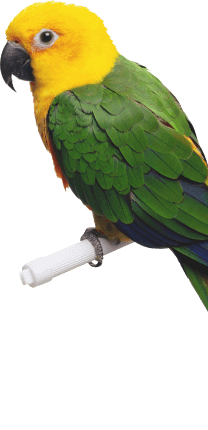
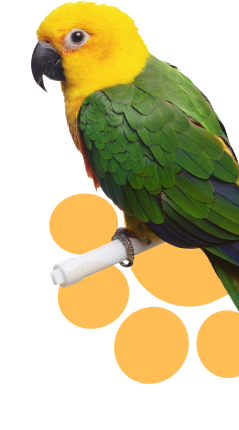
fix promo and comments section

diff --git a/index.html b/index.html
@@ -102,11 +102,11 @@
       <div class="container">
         <div class="comments-section-content">
           <h2 class="visually-hidden">Comments Section</h2>
-          <hr class="comments-hr">
-          <blockquote class="comment">
-            Наша ветеринарная клиника готова уделить максимум внимания Вам и Вашему питамцу. Здоровье и благополучие Ваших животных очень важно для нас и мы стремимся оказать наилучшую возможную ветеринарную помощь.
-          </blockquote>
-          <hr class="comments-hr">
+          <div class="comment-wrapper">
+            <blockquote class="comment">
+              Наша ветеринарная клиника готова уделить максимум внимания Вам и Вашему питамцу. Здоровье и благополучие Ваших животных очень важно для нас и мы стремимся оказать наилучшую возможную ветеринарную помощь.
+            </blockquote>
+          </div>
           <p class="comment-author">Оржоникидзевская Ветеринарная клиника</p>
         </div>
       </div>
@@ -270,93 +270,95 @@
         </div>
       </div>
     </section>
-  </main>
-  
-  
-  <!-- Article Section -->
-  
-  
-  <article class="articles-section">
-    <div class="container">
-      <div class="articles-section-content">
-        <h2 class="section-heading">Полезные статьи</h2>
-        
-        <div class="article">
-          <article class="inner-article article-odd">
-            <div class="article-odd-img-wrapper">
-              <img src="img/article-cat.jpg" alt="Article img" srcset="img/article-cat.jpg 1x, img/article-cat@2x.jpg 2x" width="305" height="180">
-            </div>
-            
-            <time>28.08.2020</time>
-            
-            <h3 class="inner-heading">Ультразвуковая чистка зубов</h3>
-            
-            <p>Появление в доме котенка приятное и радосное событие. Но не всегда этот пушистый зверек берется от ...</p>
-            
-            <a class="btn btn-read-more" href="#">Читать больше</a>
-          </article>
+    
+    
+    
+    <!-- Article Section -->
+    
+    
+    <article class="articles-section">
+      <div class="container">
+        <div class="articles-section-content">
+          <h2 class="section-heading">Полезные статьи</h2>
           
-          <article class="inner-article article-even">
-            <div class="article-even-img-wrapper">
-              <img src="img/article-two-dogs.jpg" alt="Article img" srcset="img/article-two-dogs.jpg 1x, img/article-two-dogs@2x.jpg 2x" width="305" height="435">
-            </div>
-            
-            <div class="article-even-text">
-              <div class="article-even-info">
-                <div class="article-hashtag">
-                  <span>#собака</span>
-                  <span>#дом</span>
-                  <span>#уход</span>
-                </div>
-                <time>28.08.2020</time>
+          <div class="article">
+            <article class="inner-article article-odd">
+              <div class="article-odd-img-wrapper">
+                <img src="img/article-cat.jpg" alt="Article img" srcset="img/article-cat.jpg 1x, img/article-cat@2x.jpg 2x" width="305" height="180">
               </div>
               
-              <h3 class="inner-heading">Перед тем как завести собаку</h3>
+              <time>28.08.2020</time>
               
-              <p>Появление в доме котенка приятное и радосное событие. Но не всегда этот пушистый зверек берется от заводчиков, Бивают и ситуации когда животное находят на улице и дают ему теплый дом. И первым вопросом, который возникает у новых хозяев – как определить возраст котенка. Появление в доме котенка приятное и радосное событие.</p>
+              <h3 class="inner-heading">Ультразвуковая чистка зубов</h3>
+              
+              <p>Появление в доме котенка приятное и радосное событие. Но не всегда этот пушистый зверек берется от ...</p>
               
               <a class="btn btn-read-more" href="#">Читать больше</a>
-            </div>
-          </article>
-          
-          <article class="inner-article article-odd">
-            <div class="article-odd-img-wrapper">
-              <img src="img/article-dog.jpg" alt="Article img" srcset="img/article-dog.jpg 1x, img/article-dog@2x.jpg 2x" width="305" height="180">
-            </div>
+            </article>
             
-            <time>28.08.2020</time>
+            <article class="inner-article article-even">
+              <div class="article-even-img-wrapper">
+                <img src="img/article-two-dogs.jpg" alt="Article img" srcset="img/article-two-dogs.jpg 1x, img/article-two-dogs@2x.jpg 2x" width="305" height="435">
+              </div>
+              
+              <div class="article-even-text">
+                <div class="article-even-info">
+                  <div class="article-hashtag">
+                    <span>#собака</span>
+                    <span>#дом</span>
+                    <span>#уход</span>
+                  </div>
+                  <time>28.08.2020</time>
+                </div>
+                
+                <h3 class="inner-heading">Перед тем как завести собаку</h3>
+                
+                <p>Появление в доме котенка приятное и радосное событие. Но не всегда этот пушистый зверек берется от заводчиков, Бивают и ситуации когда животное находят на улице и дают ему теплый дом. И первым вопросом, который возникает у новых хозяев – как определить возраст котенка. Появление в доме котенка приятное и радосное событие.</p>
+                
+                <a class="btn btn-read-more" href="#">Читать больше</a>
+              </div>
+            </article>
             
-            <h3 class="inner-heading">Когда привавать питомца?</h3>
-            
-            <p>Появление в доме котенка приятное и радосное событие. Но не всегда этот пушистый зверек берется от ...</p>
-            
-            <a class="btn btn-read-more" href="#">Читать больше</a>
-          </article>
+            <article class="inner-article article-odd">
+              <div class="article-odd-img-wrapper">
+                <img src="img/article-dog.jpg" alt="Article img" srcset="img/article-dog.jpg 1x, img/article-dog@2x.jpg 2x" width="305" height="180">
+              </div>
+              
+              <time>28.08.2020</time>
+              
+              <h3 class="inner-heading">Когда привавать питомца?</h3>
+              
+              <p>Появление в доме котенка приятное и радосное событие. Но не всегда этот пушистый зверек берется от ...</p>
+              
+              <a class="btn btn-read-more" href="#">Читать больше</a>
+            </article>
+          </div>
         </div>
       </div>
-    </div>
-  </article>
-  
-  
-  <!-- Feedback Section -->
-  
-  <section class="feedback-section">
-    <a class="feedback-map-link" href="https://goo.gl/maps/Li6QioLF6r5FvDAi7">
-      <img class="feedback-map" src="img/map-yandex.jpg" alt="Map" srcset="img/map-yandex.jpg 1x, img/map-yandex@2x.jpg 2x" width="462" height="652">
-    </a>
+    </article>
     
-    <div class="feedback-section-content">
-      <h2 class="section-heading">Обратная связь</h2>
+    
+    <!-- Feedback Section -->
+    
+    <section class="feedback-section">
+      <a class="feedback-map-link" href="https://goo.gl/maps/Li6QioLF6r5FvDAi7">
+        <img class="feedback-map" src="img/map-yandex.jpg" alt="Map" srcset="img/map-yandex.jpg 1x, img/map-yandex@2x.jpg 2x" width="462" height="652">
+      </a>
       
-      <p class="feedback-subtitle">При возникновении вопросов по поводу работы клиники или консультаций, заполните форму ниже:</p>
-      
-      <form action="#" method="GET">
-        <label for="name_input">Ваше имя</label>
-        <input type="text" id="name_input" name="username" placeholder="Ваше имя" required>
-      </form>
-    </div>
-  </section>
-  
+      <div class="feedback-section-content">
+        <h2 class="section-heading">Обратная связь</h2>
+        
+        <p class="feedback-subtitle">При возникновении вопросов по поводу работы клиники или консультаций, заполните форму ниже:</p>
+        
+        <form action="#" method="GET">
+          <label for="name_input">Ваше имя</label>
+          <input type="text" id="name_input" name="username" placeholder="Ваше имя" required>
+        </form>
+      </div>
+    </section>
+
+
+  </main>
   
   <!-- Site Footer -->
   

diff --git a/css/styles.css b/css/styles.css
@@ -367,11 +367,11 @@ img{
 
 .promo-section{
   padding-top: 153px;
-  padding-bottom: 321px;
+  padding-bottom: 400px;
   background-image: url(../img/promo-bg-left.png), 
   url(../img/promo-bg-right.png);
   background-repeat: no-repeat;
-  background-position: top left, bottom right;
+  background-position: top -100px left , bottom right;
   background-size: contain, auto;
 }
 
@@ -390,9 +390,11 @@ img{
 
 .page-heading span{
   color: #1c97b6;
+  display: inline-block;
 }
 
 .page-info{
+  max-width: 495px;
   margin: 0;
   margin-bottom: 38px;
   font-size: 16px;
@@ -401,7 +403,9 @@ img{
 }
 
 .btn-our-services{
-  padding: 15px 48px;
+  min-width: 180px;
+  max-width: 100%;
+  padding: 15px;
   border-radius: 3px;
   transition: background-color 0.3s ease,
   opacity 0.3s ease,
@@ -420,26 +424,45 @@ img{
 /* Comments Section */
 
 .comments-section{
-  margin-bottom: 191px;
+  padding-top: 30px;
+  padding-bottom: 85px;
 }
 
 .comments-section-content{
+  max-width: 755px;
+  margin-left: auto;
+  margin-right: auto;
   text-align: center;
 }
 
-.comments-hr{
+.comment-wrapper{
+  display: flex;
+  flex-direction: column;
+  align-items: center;
+}
+
+.comment-wrapper::before{
+  display: inline-block;
   width: 140px;
   height: 1px;
+  margin-bottom: 43px;
   background-color:#DBDBDB;
-  border: none;
+  content: "";
+}
+
+.comment-wrapper::after{
+  display: inline-block;
+  width: 140px;
+  height: 1px;
+  margin-top: 35px;
+  background-color:#DBDBDB;
+  content: "";
 }
 
 .comment{
   position: relative;
   width: 753px;
   margin: 0;
-  margin-top: 43px;
-  margin-bottom: 35px;
   margin-left: auto;
   margin-right: auto;
   font-size: 20px;
@@ -484,6 +507,11 @@ img{
 }
 
 /* Services Section */
+
+.services-section{
+  padding-top: 86px;
+  padding-bottom: 118px;
+}
 
 .slider-wrapper{
   position: relative;
@@ -663,9 +691,9 @@ img{
 
 .events-form-section{
   position: relative;
-  margin-top: 235px;
-  margin-bottom: 216px;
-  background-image:  url(../img/event-form-bg.jpg);
+  margin-top: 117px;
+  margin-bottom: 108px;
+  background-image:  url(../img/blue-bg.jpg);
   background-repeat: no-repeat;
   background-position: center center;
   background-size: cover;
@@ -748,27 +776,11 @@ img{
   opacity: 0.5;
 }
 
-/* Site Footer */
-
-.site-footer{
-  padding-top: 54px;
-  padding-bottom: 23px;
-  background-color: #F3F3F3;
-}
-
-.site-footer-content{
-  display: flex;
-}
-
-.footer-nav-menu{
-  display: flex;
-  flex-direction: column;
-}
-
 /* Articles Section */
 
 .articles-section{
-  padding-bottom: 153px;
+  padding-top: 108px;
+  padding-bottom: 132px;
 }
 
 .article{
@@ -923,11 +935,27 @@ img{
   opacity: 0.5;
 }
 
+/* Feedback Section */
+
 .feedback-section{
+  margin-top: 133px;
+  margin-bottom: 123px;
   display: flex;
 }
 
 /* Site Footer */
+
+.site-footer{
+  margin-top: 124px;
+  padding-top: 54px;
+  padding-bottom: 23px;
+  background-color: #F3F3F3;
+}
+
+.footer-nav-menu{
+  display: flex;
+  flex-direction: column;
+}
 
 .site-footer-content{
   display: flex;
